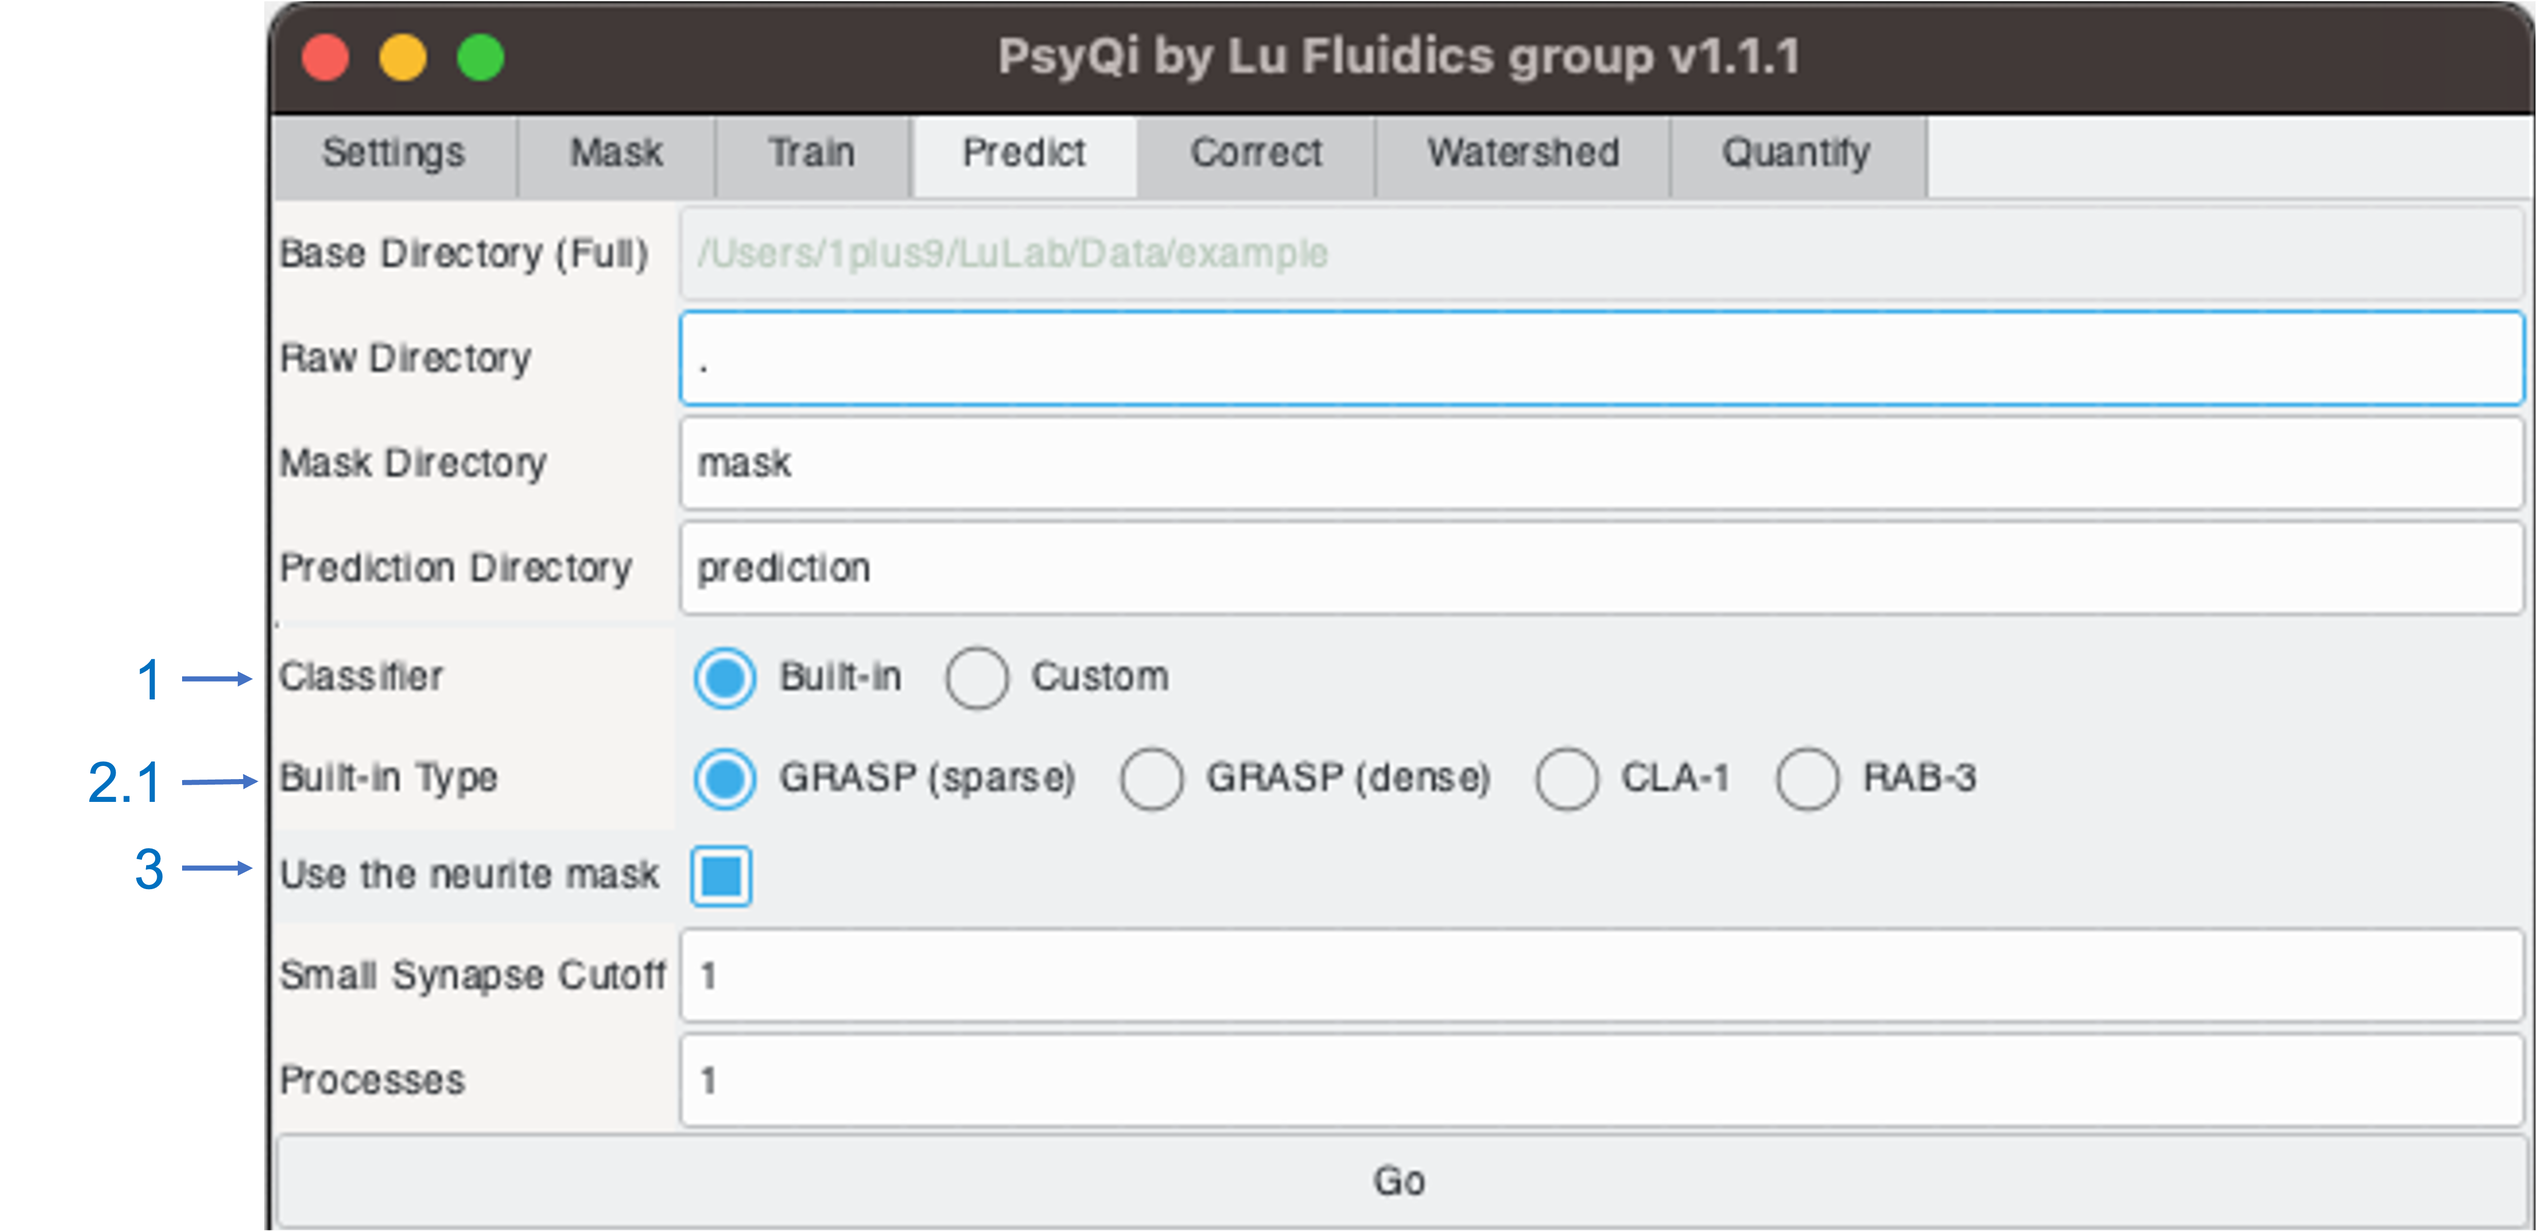
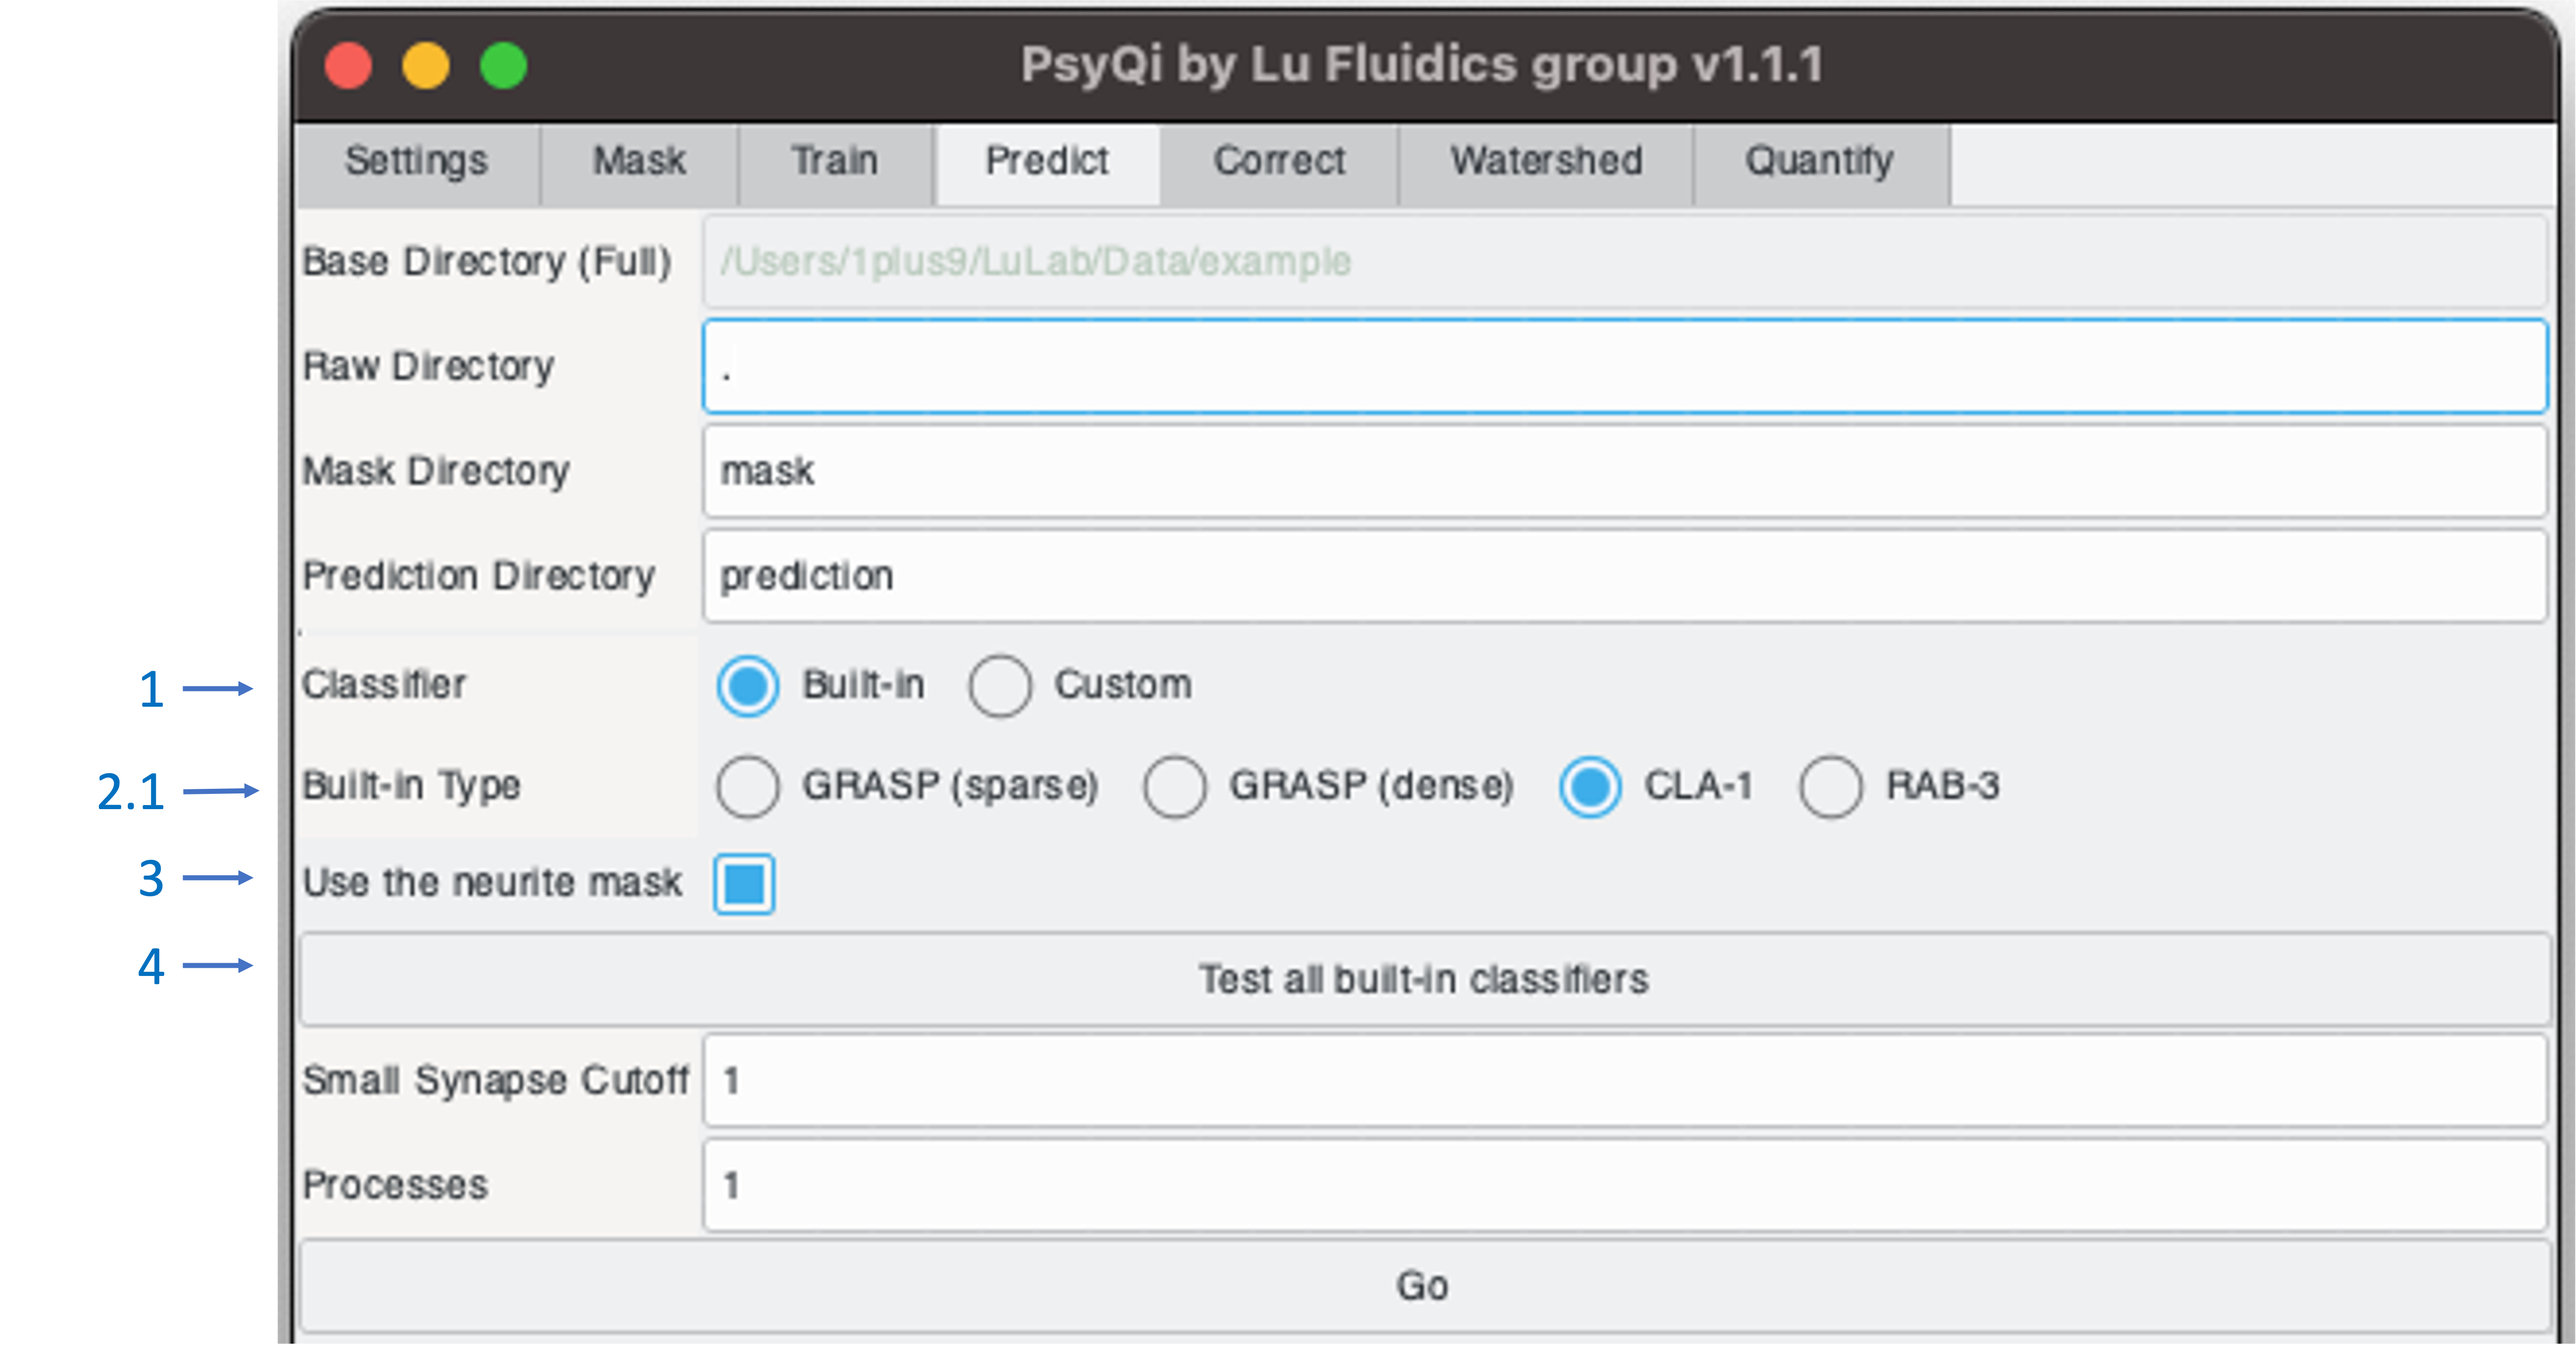
- Add test all classifier function

Changed region(s): [[0.0312, 0.0, 1.0, 1.0]]

diff --git a/gui/main.py b/gui/main.py
@@ -329,12 +329,6 @@ class SynapseSegmentator(tk.Tk):
                                                                 BUILT_IN_CLASSIFIER_OPTIONS[0], cur_row)
         self.input_widgets.extend(self.option_builtin_classifier.rbuttons)
         cur_row += 1
-        # add test all classifier button
-        self.btn_test_all_classifier = ttk.Button(self.tab_predict, text='Test all built-in classifiers',
-                                                    command=self._onbutton_test_all_classifier)
-        self.btn_test_all_classifier.grid(row=cur_row, columnspan=2, sticky=tk.NSEW)
-        self.input_widgets.append(self.btn_test_all_classifier)
-        cur_row += 1
 
         self.tp_dir_classifier = WidgetLabelEntry(self.tab_predict, 'Custom Classifier Dir.', 'classifier', cur_row,
                                                   strvar=self.dir_classifier.var)
@@ -345,6 +339,13 @@ class SynapseSegmentator(tk.Tk):
         # Use the neurite mask or not
         self.tp_masking = WidgetLabelCheck(self.tab_predict, 'Use the neurite mask', cur_row)
         self.input_widgets.append(self.tp_masking.check)
+        cur_row += 1
+
+        # add test all classifier button
+        self.btn_test_all_classifier = ttk.Button(self.tab_predict, text='Test all built-in classifiers',
+                                                    command=self._onbutton_test_all_classifier)
+        self.btn_test_all_classifier.grid(row=cur_row, columnspan=2, sticky=tk.NSEW)
+        self.input_widgets.append(self.btn_test_all_classifier)
         cur_row += 1
 
         # Single-voxel elimination or not
@@ -553,9 +554,9 @@ class SynapseSegmentator(tk.Tk):
     def _on_change_option_classifier(self, *args):
         if self.option_classifier.var.get() == CLASSIFIER_OPTIONS[0]:  # built-in
             self.option_builtin_classifier.show_widget()
-            # show btn_test_all_classifier
-            self.btn_test_all_classifier.grid(row=7, columnspan=2, sticky=tk.NSEW)
             self.tp_dir_classifier.hide_widget()
+            # show btn_test_all_classifier
+            self.btn_test_all_classifier.grid(row=9, columnspan=2, sticky=tk.NSEW)
         else:  # custom
             self.option_builtin_classifier.hide_widget()
             # hide btn_test_all_classifier

diff --git a/running_guide.md b/running_guide.md
@@ -157,7 +157,8 @@ In the prediction step, the pipeline takes 1) raw images from the raw directory,
         - Enter the directory name containing the serialized classifier created in the training step.
 3. Use the neurite mask
     - If checked, synaptic puncta outside of the neurite mask from the mask step will be removed.
-
+4. Test all built-in classifiers
+    - By activating this option, PsyQi will generate synapse segmentation results for an image in the raw directory using all available built-in classifiers. This feature allows users to manually assess the outcomes and determine whether to employ a default model or to proceed with training a custom one. The results will be place in the prediction directory. For clarity in subsequent operations, it's recommended that these results be removed before moving to subsequent steps.
 <p id="figure7">
 
 ![Figure 7](./resources/running_guide/running_guide_figure7.png)
